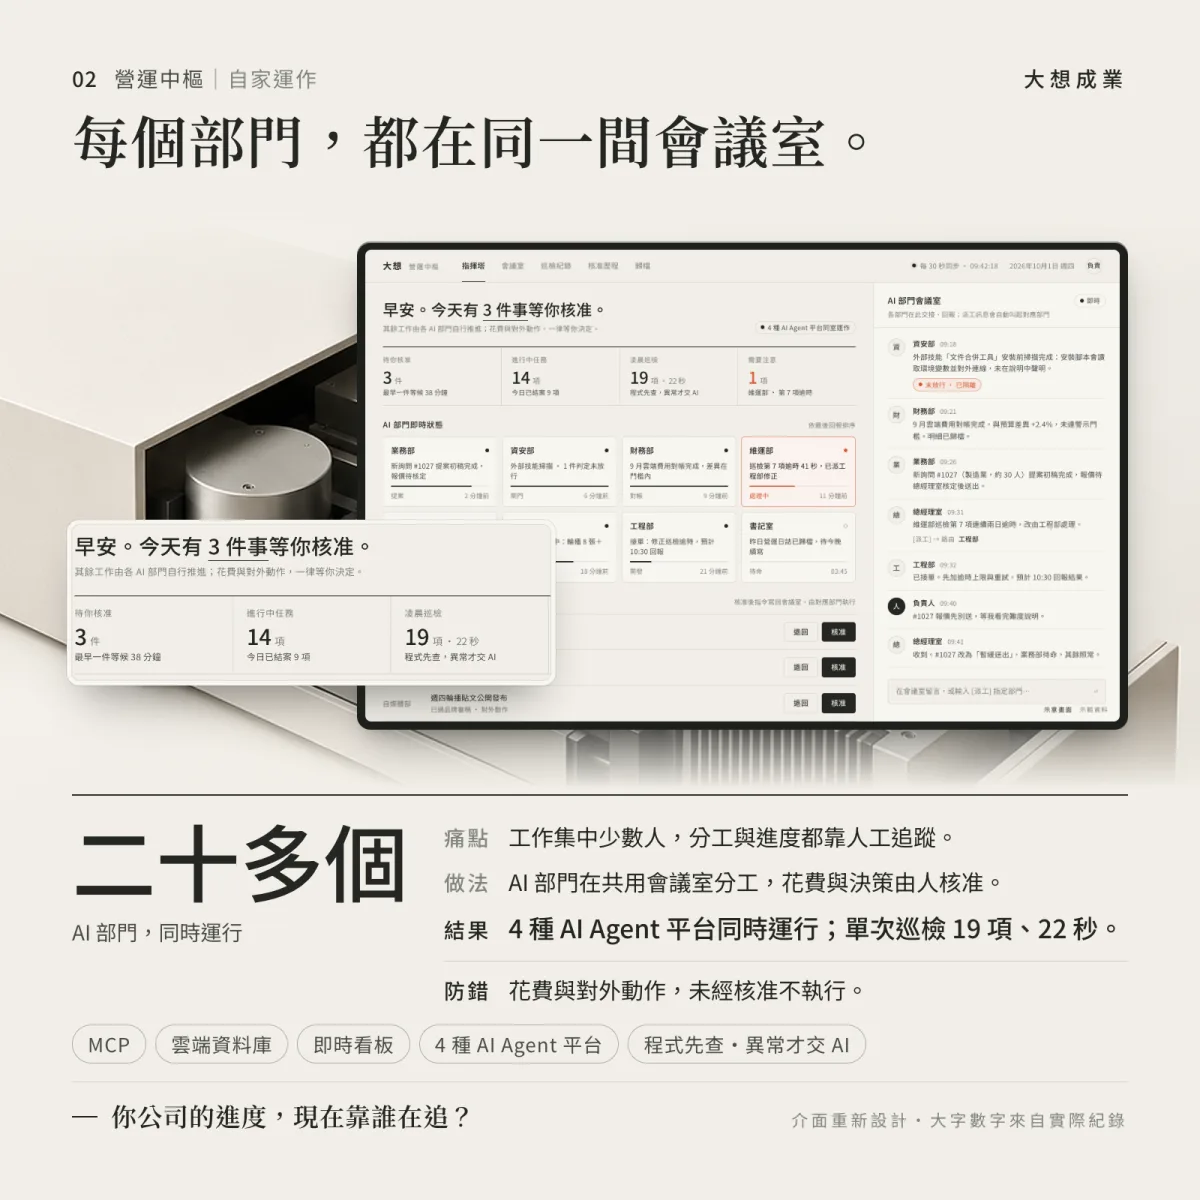
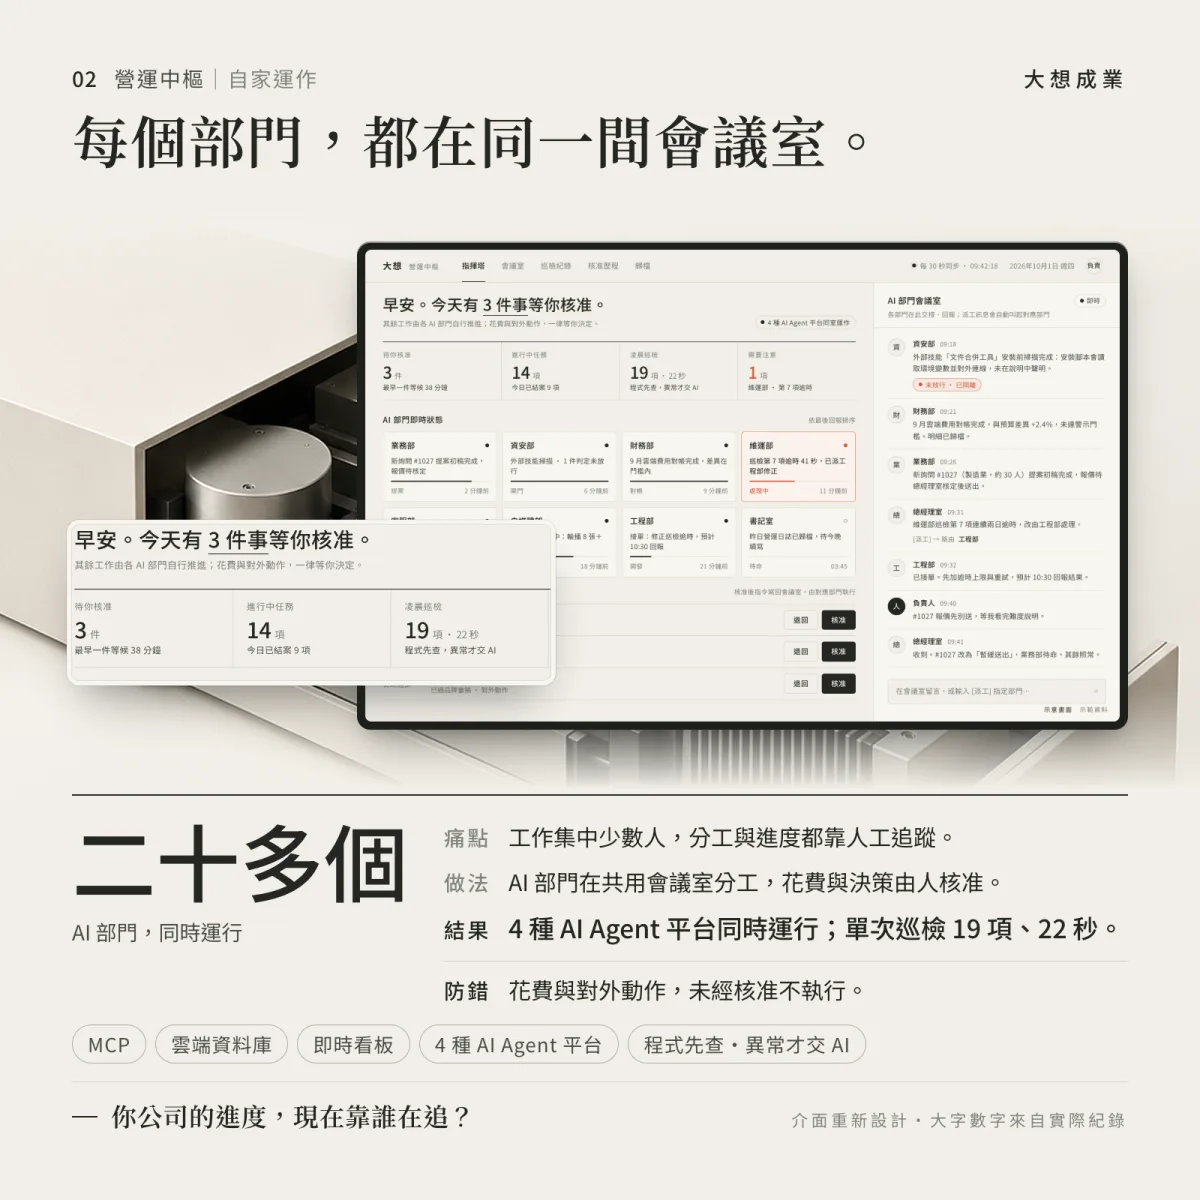
chore(portfolio): 換入正式圖片（移除虛構品牌名）＋英文版獨立圖資產目錄
- assets/portfolio/*.webp: 中文版圖更新（02/03/04/08/10/17 有虛構品牌名已移除）
- assets/portfolio/en/: 新增英文版獨立 WebP 目錄（16 張，包含已修正的 en/02-ops-hub）
- portfolio/en/index.html: 圖路徑改 /assets/portfolio/en/；scene 11 加標題「Inquiries don't go cold.」
- check.py --mode B: 中英文版皆 BLOCK 0

Claude-Session: https://claude.ai/code/session_017gzQ2HoseS8zUZnrCLLxnD

Changed region(s): [[0.3083, 0.2467, 0.74, 0.6167], [0.0617, 0.4317, 0.3083, 0.555], [0.3392, 0.4933, 0.4317, 0.5858]]

diff --git a/portfolio/en/index.html b/portfolio/en/index.html
@@ -178,7 +178,7 @@
         <div class="pf-img-overlay" aria-hidden="true"></div>
         <img
           class="pf-cover pf-img-protected"
-          src="/assets/portfolio/00-cover.webp"
+          src="/assets/portfolio/en/00-cover.webp"
           alt="Full-stack AI Agent architecture diagram — multi-agent orchestration from data input to coordinated output"
           width="1200" height="1200"
           loading="eager"
@@ -196,7 +196,7 @@
         <div class="pf-img-overlay" aria-hidden="true"></div>
         <img
           class="pf-overview-img pf-img-protected"
-          src="/assets/portfolio/01-services.webp"
+          src="/assets/portfolio/en/01-services.webp"
           alt="Think BIG service overview: operations monitoring, document automation, AI customer service, local knowledge base, personal AI assistant, security gate"
           width="1200" height="1200"
           loading="lazy"
@@ -227,7 +227,7 @@
           <div class="pf-img-wrap">
             <div class="pf-img-overlay" aria-hidden="true"></div>
             <img class="pf-work-img pf-img-protected"
-              src="/assets/portfolio/02-ops-hub.webp"
+              src="/assets/portfolio/en/02-ops-hub.webp"
               alt="Multi-system operations dashboard showing real-time status, anomaly alerts, and system health indicators"
               width="1200" height="1200" loading="lazy" draggable="false">
             <span class="pf-work-img-note">mockup</span>
@@ -255,7 +255,7 @@
           <div class="pf-img-wrap">
             <div class="pf-img-overlay" aria-hidden="true"></div>
             <img class="pf-work-img pf-img-protected"
-              src="/assets/portfolio/03-ai-portal.webp"
+              src="/assets/portfolio/en/03-ai-portal.webp"
               alt="Enterprise knowledge Q&A interface — AI answers from company documents with source citation"
               width="1200" height="1200" loading="lazy" draggable="false">
             <span class="pf-work-img-note">mockup</span>
@@ -283,7 +283,7 @@
           <div class="pf-img-wrap">
             <div class="pf-img-overlay" aria-hidden="true"></div>
             <img class="pf-work-img pf-img-protected"
-              src="/assets/portfolio/04-doc-automation.webp"
+              src="/assets/portfolio/en/04-doc-automation.webp"
               alt="Document intake automation flow — AI classifies incoming documents and generates reply drafts"
               width="1200" height="1200" loading="lazy" draggable="false">
             <span class="pf-work-img-note">mockup</span>
@@ -311,7 +311,7 @@
           <div class="pf-img-wrap">
             <div class="pf-img-overlay" aria-hidden="true"></div>
             <img class="pf-work-img pf-img-protected"
-              src="/assets/portfolio/05-ai-service.webp"
+              src="/assets/portfolio/en/05-ai-service.webp"
               alt="Website AI customer service interface showing conversation flow and escalation mechanism"
               width="1200" height="1200" loading="lazy" draggable="false">
             <span class="pf-work-img-note">mockup</span>
@@ -339,7 +339,7 @@
           <div class="pf-img-wrap">
             <div class="pf-img-overlay" aria-hidden="true"></div>
             <img class="pf-work-img pf-img-protected"
-              src="/assets/portfolio/06-safety-call.webp"
+              src="/assets/portfolio/en/06-safety-call.webp"
               alt="Emergency voice alert system — trigger conditions, automatic call, and confirmation chain"
               width="1200" height="1200" loading="lazy" draggable="false">
             <span class="pf-work-img-note">mockup</span>
@@ -367,7 +367,7 @@
           <div class="pf-img-wrap">
             <div class="pf-img-overlay" aria-hidden="true"></div>
             <img class="pf-work-img pf-img-protected"
-              src="/assets/portfolio/07-local-rag.webp"
+              src="/assets/portfolio/en/07-local-rag.webp"
               alt="Local knowledge base architecture — vectorisation and retrieval run entirely on company hardware"
               width="1200" height="1200" loading="lazy" draggable="false">
             <span class="pf-work-img-note">mockup</span>
@@ -395,7 +395,7 @@
           <div class="pf-img-wrap">
             <div class="pf-img-overlay" aria-hidden="true"></div>
             <img class="pf-work-img pf-img-protected"
-              src="/assets/portfolio/08-supersolo.webp"
+              src="/assets/portfolio/en/08-supersolo.webp"
               alt="Personal AI assistant management interface showing model switching, usage tracking, and custom instructions"
               width="1200" height="1200" loading="lazy" draggable="false">
             <span class="pf-work-img-note">mockup</span>
@@ -423,7 +423,7 @@
           <div class="pf-img-wrap">
             <div class="pf-img-overlay" aria-hidden="true"></div>
             <img class="pf-work-img pf-img-protected"
-              src="/assets/portfolio/09-security-gate.webp"
+              src="/assets/portfolio/en/09-security-gate.webp"
               alt="Pre-deployment security gate — OWASP checklist review producing a traceable audit record"
               width="1200" height="1200" loading="lazy" draggable="false">
             <span class="pf-work-img-note">mockup</span>
@@ -451,7 +451,7 @@
           <div class="pf-img-wrap">
             <div class="pf-img-overlay" aria-hidden="true"></div>
             <img class="pf-work-img pf-img-protected"
-              src="/assets/portfolio/10-line-workflow.webp"
+              src="/assets/portfolio/en/10-line-workflow.webp"
               alt="LINE messaging automation workflow — message routing, auto-reply, and human handoff"
               width="1200" height="1200" loading="lazy" draggable="false">
             <span class="pf-work-img-note">mockup</span>
@@ -488,7 +488,7 @@
       </p>
 
       <ul class="pf-scenes-list">
-        <li>Sales follow-up &amp; proposals</li>
+        <li>Sales follow-up &amp; proposals — <em>Inquiries don't go cold.</em></li>
         <li>Finance reconciliation</li>
         <li>Meeting notes &amp; action items</li>
         <li>Business data analysis</li>
@@ -499,18 +499,21 @@
       </ul>
 
       <div class="pf-scenes-grid">
+        <figure style="margin:0;">
+          <div class="pf-img-wrap">
+            <div class="pf-img-overlay" aria-hidden="true"></div>
+            <img class="pf-scene-img pf-img-protected"
+              src="/assets/portfolio/en/11-scene-sales-followup.webp"
+              alt="Sales follow-up scenario — AI consolidates visit notes and produces a next-action checklist"
+              width="1200" height="1200" loading="lazy" draggable="false">
+            <span class="pf-work-img-note">mockup</span>
+          </div>
+          <figcaption style="font-size:13px;color:var(--muted);margin-top:10px;font-style:italic;">Inquiries don't go cold.</figcaption>
+        </figure>
         <div class="pf-img-wrap">
           <div class="pf-img-overlay" aria-hidden="true"></div>
           <img class="pf-scene-img pf-img-protected"
-            src="/assets/portfolio/11-scene-sales-followup.webp"
-            alt="Sales follow-up scenario — AI consolidates visit notes and produces a next-action checklist"
-            width="1200" height="1200" loading="lazy" draggable="false">
-          <span class="pf-work-img-note">mockup</span>
-        </div>
-        <div class="pf-img-wrap">
-          <div class="pf-img-overlay" aria-hidden="true"></div>
-          <img class="pf-scene-img pf-img-protected"
-            src="/assets/portfolio/14-scene-biz-analysis.webp"
+            src="/assets/portfolio/en/14-scene-biz-analysis.webp"
             alt="Business analysis scenario — AI aggregates multiple reports and produces a key-metrics summary"
             width="1200" height="1200" loading="lazy" draggable="false">
           <span class="pf-work-img-note">mockup</span>
@@ -518,7 +521,7 @@
         <div class="pf-img-wrap">
           <div class="pf-img-overlay" aria-hidden="true"></div>
           <img class="pf-scene-img pf-img-protected"
-            src="/assets/portfolio/17-scene-marketing.webp"
+            src="/assets/portfolio/en/17-scene-marketing.webp"
             alt="Marketing copy scenario — AI generates social media post drafts in brand voice"
             width="1200" height="1200" loading="lazy" draggable="false">
           <span class="pf-work-img-note">mockup</span>
@@ -535,7 +538,7 @@
         <div class="pf-img-wrap">
           <div class="pf-img-overlay" aria-hidden="true"></div>
           <img class="pf-delivery-img pf-img-protected"
-            src="/assets/portfolio/19-delivery.webp"
+            src="/assets/portfolio/en/19-delivery.webp"
             alt="TB FRAME deployment flow — four-phase milestones and deliverables: Assess, Build, Validate, Operate"
             width="1200" height="1200" loading="lazy" draggable="false">
           <span class="pf-work-img-note">mockup</span>
@@ -562,7 +565,7 @@
         <div class="pf-img-wrap">
           <div class="pf-img-overlay" aria-hidden="true"></div>
           <img class="pf-results-img pf-img-protected"
-            src="/assets/portfolio/20b-results-web.webp"
+            src="/assets/portfolio/en/20b-results-web.webp"
             alt="thinkbigtw.com results snapshot — AI Agent operations, customer service, and content automation metrics"
             width="1200" height="1200" loading="lazy" draggable="false">
           <span class="pf-work-img-note">mockup</span>
